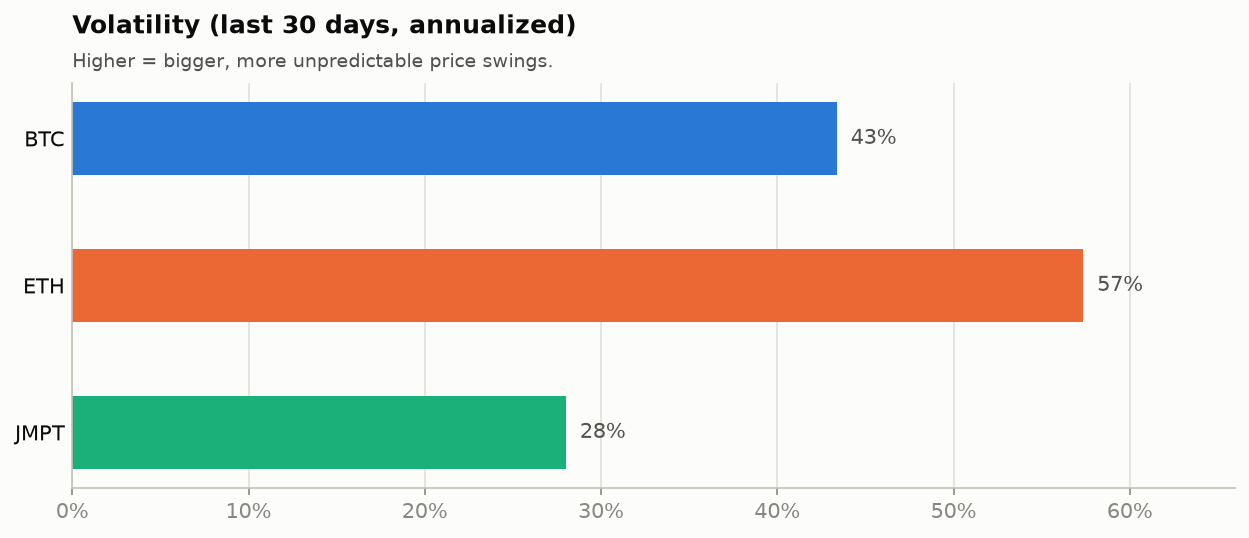
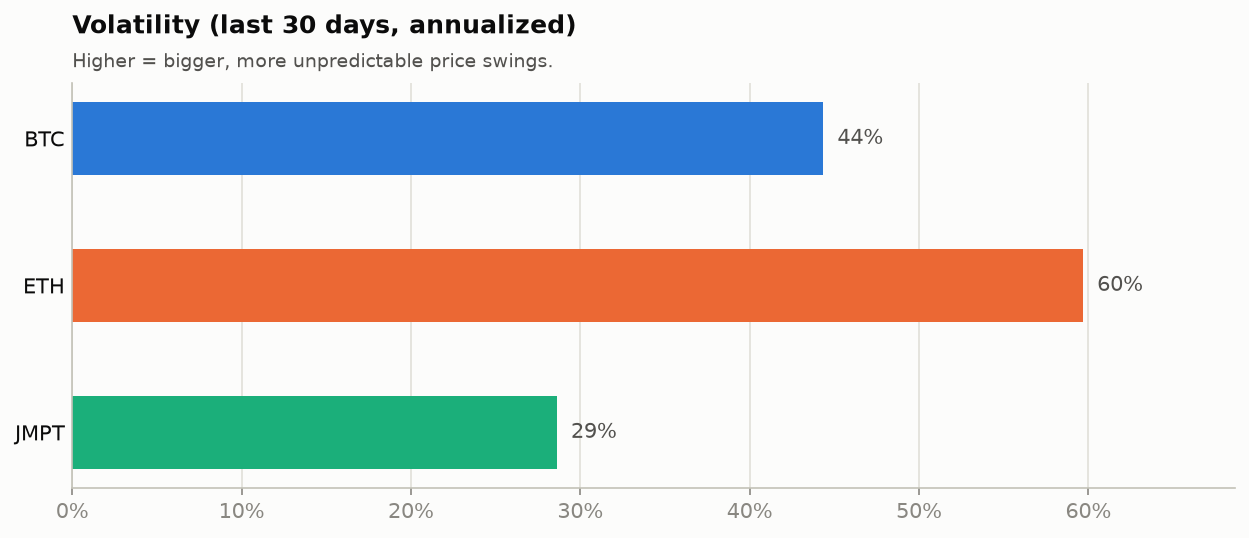
data: market update 2026-11-16

diff --git a/README.md b/README.md
@@ -9,13 +9,13 @@ The project compares two of the largest cryptocurrencies with a small-cap token:
 ## Latest stats
 
 <!-- STATS:START -->
-_Snapshot as of **2026-11-15 00:00 UTC**. Updated automatically every day._
+_Snapshot as of **2026-11-16 00:00 UTC**. Updated automatically every day._
 
 | Coin | Price | 1 day | 7 days | 30 days | 1 year | Volatility (30d) | Market cap |
 |:--|--:|--:|--:|--:|--:|--:|--:|
-| **BTC** Bitcoin | $64,120 | ▼ -6.1% | ▼ -15.4% | ▼ -22.0% | ▼ -32.3% | 43% | $1.29T |
-| **ETH** Ethereum | $1,768 | ▼ -8.5% | ▼ -20.9% | ▼ -27.5% | ▼ -43.3% | 57% | $216.14B |
-| **JMPT** JumpToken | $0.4607 | ▼ -4.0% | ▼ -9.5% | ▼ -14.6% | ▼ -42.8% | 28% | $6.80M |
+| **BTC** Bitcoin | $65,305 | ▲ +1.8% | ▼ -12.6% | ▼ -19.9% | ▼ -31.5% | 44% | $1.31T |
+| **ETH** Ethereum | $1,835 | ▲ +3.7% | ▼ -13.6% | ▼ -24.2% | ▼ -42.1% | 60% | $224.22B |
+| **JMPT** JumpToken | $0.4662 | ▲ +1.2% | ▼ -7.4% | ▼ -12.9% | ▼ -43.1% | 29% | $6.88M |
 <!-- STATS:END -->
 
 ## Charts
